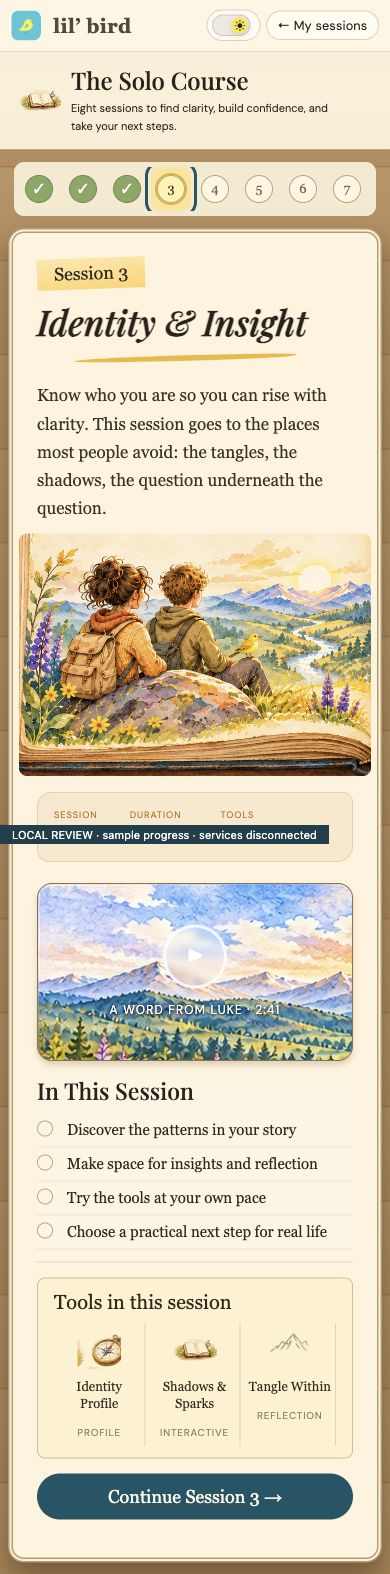
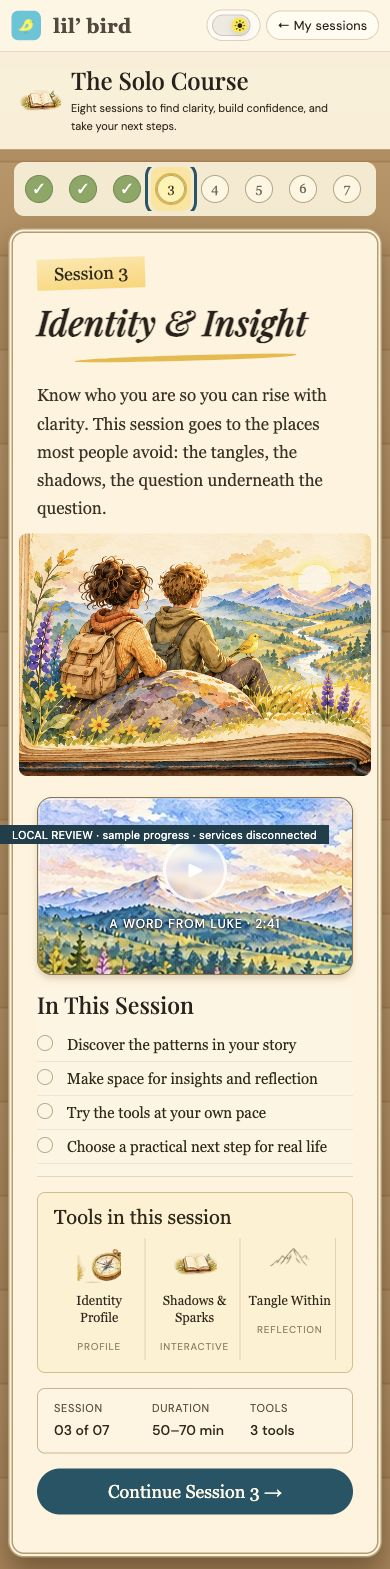
Move session details onto readable paper beside resources

diff --git a/solo/index.html b/solo/index.html
@@ -994,7 +994,7 @@
   <link rel="stylesheet" href="/css/lilbird-solo-theme.css?v=20260922b" />
   <link rel="stylesheet" href="/css/lilbird-solo-journal.css?v=20261106s6" />
   <link rel="stylesheet" href="/css/lilbird-parchment.css?v=20261106p6" />
-  <link rel="stylesheet" href="/css/lilbird-solo-open-book.css?v=20261107c" />
+  <link rel="stylesheet" href="/css/lilbird-solo-open-book.css?v=20261106d" />
   <script>document.documentElement.classList.add('solo-journal');</script>
   <!-- Google Tag Manager -->
   <script src="/lilbird-gtm-id.js"></script>
@@ -1271,6 +1271,7 @@
           <div id="book-video-slot"></div>
           <section class="book-agenda" aria-labelledby="book-agenda-title"><h2 id="book-agenda-title">In This Session</h2><ul><li>Discover the patterns in your story</li><li>Make space for insights and reflection</li><li>Try the tools at your own pace</li><li>Choose a practical next step for real life</li></ul></section>
           <div id="book-tools-slot"></div>
+          <div id="book-meta-slot"></div>
           <button type="button" class="book-continue" id="book-continue">Continue this session →</button>
         </div>
         <div class="book-conversation-heading"><button type="button" id="book-back-overview">← Session overview</button><h2>Your Reflection</h2></div>
@@ -2528,6 +2529,10 @@
       var videoSlot = document.getElementById('book-video-slot');
       var toolsSlot = document.getElementById('book-tools-slot');
       videoSlot.replaceChildren(); toolsSlot.replaceChildren();
+      var metaSlot = document.getElementById('book-meta-slot');
+      metaSlot.replaceChildren();
+      var metaPanel = document.querySelector('#session-info .session-meta-row');
+      if (metaPanel) metaSlot.appendChild(metaPanel);
       var mediaPanel = document.querySelector('#session-info .video-wrap, #session-info .video-coming-soon');
       if (mediaPanel) videoSlot.appendChild(mediaPanel);
       var toolsPanel = document.querySelector('#session-info .tools-section');

diff --git a/css/lilbird-solo-open-book.css b/css/lilbird-solo-open-book.css
@@ -164,3 +164,22 @@ html.solo-journal #view-session .tool-item-snap { grid-column:1 / -1; }
 @media(max-width:360px) {
  .book-course-header>img { display:none; }
 }
+
+/* Course details sit on opaque paper alongside the resources, clear of the artwork. */
+html.solo-journal #view-session #book-meta-slot .session-meta-row {
+ position:static; inset:auto; display:grid; grid-template-columns:repeat(3,minmax(0,1fr));
+ gap:12px; margin:0; padding:12px 16px; background:#fff5df;
+ border:1px solid #cfb487; border-radius:8px;
+}
+html.solo-journal #view-session #book-meta-slot .meta-label {
+ color:#665238; font-size:11px; line-height:1.4; letter-spacing:.06em;
+}
+html.solo-journal #view-session #book-meta-slot .meta-value {
+ color:#302819; font-size:14px; line-height:1.5; font-weight:500;
+}
+@media(min-width:1101px) {
+ .book-overview { gap:12px; }
+ html.solo-journal #view-session .video-player-container { aspect-ratio:2.5/1; }
+ .book-agenda li { padding-top:4px; padding-bottom:4px; }
+ html.solo-journal #view-session .tools-section { padding-top:10px; padding-bottom:10px; }
+}

diff --git a/docs/SOLO-OPEN-BOOK-REVIEW.md b/docs/SOLO-OPEN-BOOK-REVIEW.md
@@ -59,3 +59,9 @@ Captures use sample member progress and disconnected live services. Narration ca
 Final prompt:
 
 > Edit target supplied approved Lil Bird webpage. Asset extraction and cleanup for working website. Reproduce ONLY the central open book from this image, straight-on overhead view, exactly the same wide two-page book filling canvas with small margins, aspect ratio 1.6:1. Preserve all page edges, leather binding, watercolor leaves across upper corners, bottom left scene with TWO CHILDREN sitting on rock looking over river valley and small yellow bird. Preserve center crease and bookmark ribbon at bottom. Remove entire left navigation sidebar, top headers, outer cup, and all surrounding UI. Inside book REMOVE ALL text, session labels, yellow strokes, video rectangle, all resource cards, buttons and checklists. Upper half left page empty parchment, entire right page empty parchment. Beautiful subtle warm cream watercolor paper. Children and valley occupy lower 45 percent left page only, upper half left is blank. No UI text or markings anywhere. Small warm brown wooden table margin around book only. Faithful extraction of approved art, not a new design.
+
+## Readability revision
+
+Moved the session number, duration and tool count from the translucent overlay below the children to an opaque paper panel below Tools & Resources. Labels and values have explicit dark colors and larger type. Desktop spacing keeps the panel and Continue action within the book; mobile remains free of horizontal page overflow. The 26 JavaScript checks still pass.
+
+[Updated desktop details](solo-open-book-review/readable-details.jpg) · [Updated mobile](solo-open-book-review/mobile.jpg)
